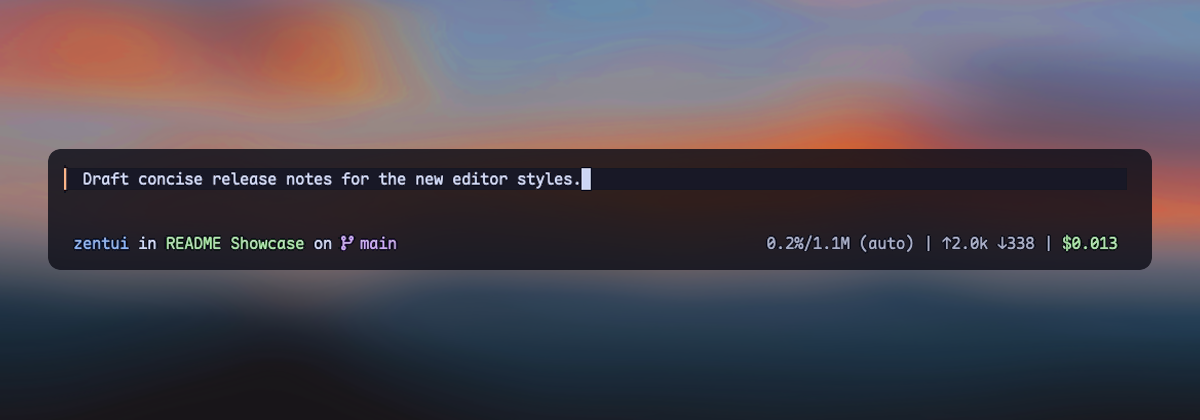
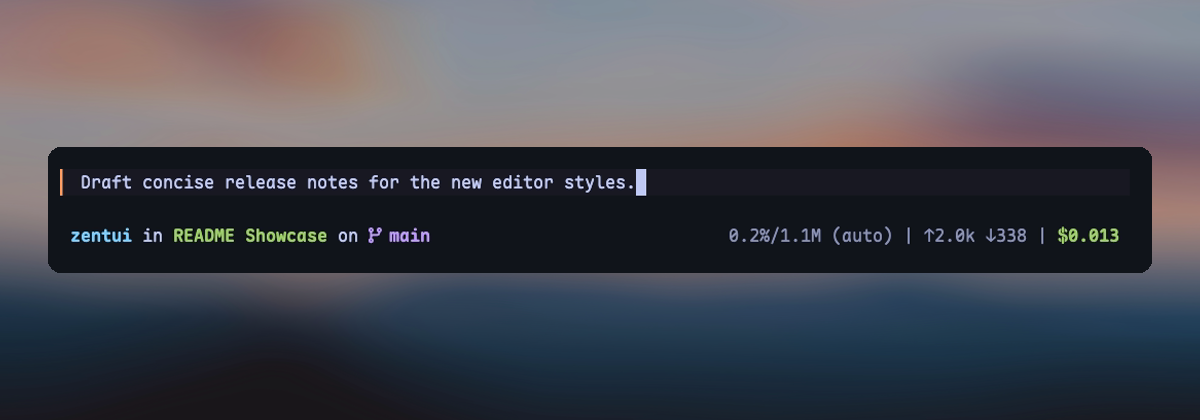
fix: preserve accent rail footer spacing
Release candidate 0.22.1: fix one-row Accent Rail/footer spacing, add regression coverage, and refresh the approved Accent Rail screenshot.

Changed region(s): [[0.0308, 0.2476, 1.0, 0.65], [0.0, 0.031, 0.3392, 0.2786], [0.9867, 0.031, 1.0, 0.0619]]

diff --git a/test/editor-viewport-indicators.test.ts b/test/editor-viewport-indicators.test.ts
@@ -975,7 +975,7 @@ describe("same-render autocomplete capture", () => {
 });
 
 describe("accent rail editor integration", () => {
-	it("decorates trusted wrapped input and autocomplete rows", () => {
+	it("decorates trusted wrapped input and preserves multi-row autocomplete output", () => {
 		const editor = wrapped(baseEditor({ autocomplete: ["one", "two"] }), {
 			style: "accent-rail",
 		});
@@ -986,6 +986,17 @@ describe("accent rail editor integration", () => {
 		expect(lines.slice(1).map((line) => line.trimEnd())).toEqual(["one", "two"]);
 	});
 
+	it("places one reserved row on each side of a one-row rail", () => {
+		const editor = wrapped(baseEditor({}), { style: "accent-rail" });
+		const lines = editor.render(24);
+
+		expect(lines).toHaveLength(3);
+		expect(lines[0]).toBe("");
+		expect(lines[1]).toMatch(/^▎ typed text/);
+		expect(lines[2]).toBe("");
+		expect([...lines, "footer"].slice(-3)).toEqual([lines[1], "", "footer"]);
+	});
+
 	it("fails open from the reduced same-render rows for untrusted third-party output", () => {
 		const base = baseEditor({ malformedTop: "third-party header" });
 		const editor = wrapped(base, { style: "accent-rail" });
@@ -994,9 +1005,11 @@ describe("accent rail editor integration", () => {
 		expect(lines.join("\n")).not.toContain("▎");
 	});
 
-	it("renders the standalone editor with the same accent rail", () => {
+	it("renders the standalone editor with the same reserved rows and accent rail", () => {
 		const lines = standalone("accent-rail").render(24);
-		expect(lines.some((line) => line.startsWith("▎ "))).toBe(true);
+		expect(lines[0]).toBe("");
+		expect(lines[1]).toMatch(/^▎ /);
+		expect(lines[2]).toBe("");
 		expect(lines.every((line) => visibleWidth(line) <= 24)).toBe(true);
 	});
 });
@@ -1062,7 +1075,9 @@ describe("minimalist editor integration", () => {
 		expect(rawWidths).toEqual([36, 38, 36, 34, 36]);
 		expect(polished.join("\n").match(/provider/g)).toHaveLength(1);
 		expect(lowRail.join("\n").match(/provider/g)).toHaveLength(1);
-		expect(accentRail[0]).toMatch(/^▎ typed text/);
+		expect(accentRail[0]).toBe("");
+		expect(accentRail[1]).toMatch(/^▎ typed text/);
+		expect(accentRail[2]).toBe("");
 		expect(accentRail.join("\n")).not.toContain("provider");
 		expect(minimalist[0]).toMatch(/^╭.*╮$/);
 		expect(minimalist.at(-1)).toMatch(/^╰.*╯$/);

diff --git a/extensions/zentui/ui.ts b/extensions/zentui/ui.ts
@@ -602,7 +602,7 @@ function renderAccentRailFrameFromBase({
 		above: parsedTop?.count,
 		below: parsedBottom?.count,
 	};
-	const lines = renderAccentRailEditorFrame({
+	const renderedLines = renderAccentRailEditorFrame({
 		width,
 		editorLines,
 		autocompleteLines,
@@ -610,6 +610,7 @@ function renderAccentRailFrameFromBase({
 		uiTheme,
 		config,
 	});
+	const lines = renderedLines.length === 1 ? ["", ...renderedLines, ""] : renderedLines;
 	POLISHED_FRAME_SPLITS.set(lines, {
 		rows: Object.freeze([...lines]),
 		split: { editorLines, trailingLines: autocompleteLines, viewport },
